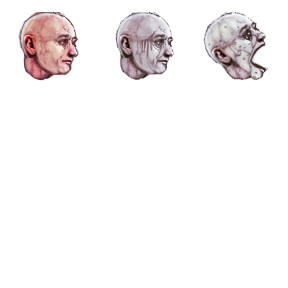
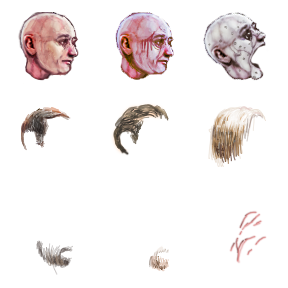
Update heads. Add more WearableTypes. Don't allow wearables that are on a different spritesheet than the head sprite.

diff --git a/Barotrauma/BarotraumaShared/Source/Characters/CharacterInfo.cs b/Barotrauma/BarotraumaShared/Source/Characters/CharacterInfo.cs
@@ -81,6 +81,9 @@ namespace Barotrauma
         private Sprite portrait;
 
         public XElement HairElement { get; private set; }
+        public XElement BeardElement { get; private set; }
+        public XElement MoustacheElement { get; private set; }
+        public XElement FaceAttachment { get; private set; }
 
         public bool StartItemsGiven;
 
@@ -267,15 +270,21 @@ namespace Barotrauma
                 this.ragdoll = ragdoll;
             }
 
-            var hairRoot = doc.Root.Element("Hair");
-            if (hairRoot == null)
+            var attachments = doc.Root.Element("HeadAttachments");
+            if (attachments != null)
             {
-                hairRoot = doc.Root.Element("hair");
-            }
-            if (hairRoot != null)
-            {
-                // TODO: allow only the one with the same head
-                HairElement = hairRoot.Elements("Wearable").GetRandom();
+                // TODO: also allow no element -> bald/nofacial hair
+                HairElement = attachments.Elements("Wearable").GetRandom(e => FilterWearable(e, WearableType.Hair));
+                BeardElement = attachments.Elements("Wearable").GetRandom(e => FilterWearable(e, WearableType.Beard));
+                MoustacheElement = attachments.Elements("Wearable").GetRandom(e => FilterWearable(e, WearableType.Moustache));
+                FaceAttachment = attachments.Elements("Wearable").GetRandom(e => FilterWearable(e, WearableType.FaceAttachment));
+
+                bool FilterWearable(XElement element, WearableType targetType)
+                {
+                    if (!Enum.TryParse(element.GetAttributeString("type", ""), true, out WearableType type) || type != targetType) { return false; }
+                    var p = element.Element("sprite").GetAttributeString("texture", string.Empty);
+                    return System.IO.File.Exists(p) && Path.GetFullPath(p) == Path.GetFullPath(HeadSprite.FilePath);
+                }
             }
         }
 

diff --git a/Barotrauma/BarotraumaShared/Source/Items/Components/Wearable.cs b/Barotrauma/BarotraumaShared/Source/Items/Components/Wearable.cs
@@ -4,13 +4,17 @@ using System.Collections.Generic;
 using System.IO;
 using System.Linq;
 using System.Xml.Linq;
+using Barotrauma.Items.Components;
 
-namespace Barotrauma.Items.Components
+namespace Barotrauma
 {
     public enum WearableType
     {
         Item,
-        Hair
+        Hair,
+        Beard,
+        Moustache,
+        FaceAttachment
     }
 
     class WearableSprite
@@ -40,15 +44,20 @@ namespace Barotrauma.Items.Components
             {
                 SheetIndex = index;
             }
-            if (Type == WearableType.Hair)
+            switch (type)
             {
-                Limb = LimbType.Head;
-                HideLimb = false;
-                HideOtherWearables = false;
-                InheritLimbDepth = true;
-                InheritTextureScale = true;
-                InheritOrigin = true;
-                InheritSourceRect = true;
+                case WearableType.Hair:
+                case WearableType.Beard:
+                case WearableType.Moustache:
+                case WearableType.FaceAttachment:
+                    Limb = LimbType.Head;
+                    HideLimb = false;
+                    HideOtherWearables = false;
+                    InheritLimbDepth = true;
+                    InheritTextureScale = true;
+                    InheritOrigin = true;
+                    InheritSourceRect = true;
+                    break;
             }
         }
 
@@ -73,7 +82,10 @@ namespace Barotrauma.Items.Components
             Sound = subElement.GetAttributeString("sound", "");
         }
     }
+}
 
+namespace Barotrauma.Items.Components
+{
     class Wearable : Pickable
     {
         private WearableSprite[] wearableSprites;

diff --git a/Barotrauma/BarotraumaShared/Source/Characters/Character.cs b/Barotrauma/BarotraumaShared/Source/Characters/Character.cs
@@ -626,7 +626,10 @@ namespace Barotrauma
             if (characterInfo != null)
             {
                 var head = newCharacter.AnimController.GetLimb(LimbType.Head);
-                characterInfo.HairElement.Elements("sprite").ForEach(s => head.OtherWearables.Add(new WearableSprite(s, WearableType.Hair)));
+                characterInfo.HairElement?.Elements("sprite").ForEach(s => head.OtherWearables.Add(new WearableSprite(s, WearableType.Hair)));
+                characterInfo.BeardElement?.Elements("sprite").ForEach(s => head.OtherWearables.Add(new WearableSprite(s, WearableType.Beard)));
+                characterInfo.MoustacheElement?.Elements("sprite").ForEach(s => head.OtherWearables.Add(new WearableSprite(s, WearableType.Moustache)));
+                characterInfo.FaceAttachment?.Elements("sprite").ForEach(s => head.OtherWearables.Add(new WearableSprite(s, WearableType.FaceAttachment)));
             }
 
             return newCharacter;
